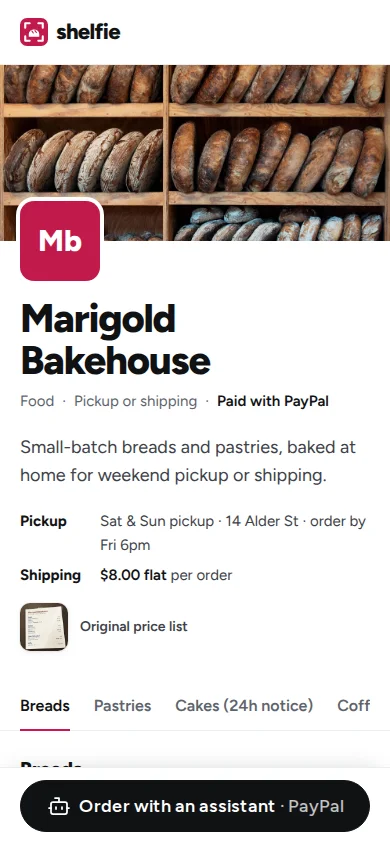
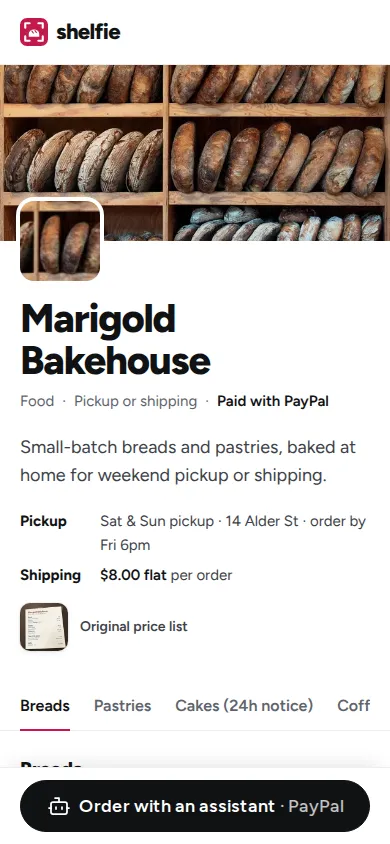
Judge round 9: ship, A 24 / B 24, 0 Part C fails (held: video, public repo, deploy); README points at round-9 and its four images are re-made from it

Changed region(s): [[0.0308, 0.2156, 0.2769, 0.3389], [0.4, 0.2156, 0.4308, 0.2464]]

diff --git a/docs/judge/round-9.md b/docs/judge/round-9.md
@@ -1,0 +1,196 @@
+# Judge round 9: main 5f7a853, images instead of stand-ins, purposeful motion, colour roles
+
+## What I judged
+
+**Artifacts:**
+- The rubric `docs/JUDGING.md` with its three Part C amendments: the 13 banned "warm editorial" patterns, the real-product check against `.scratch/refs/`, and "Images, not stand-ins".
+- Round 8's verdict, used only for its top 3 fixes and its scores.
+- `screenshots/round-9/`: 96 screens at 390 and 1440, `axe-results.json`, and the README that labels fixture and mocked states. These were taken on bbf7db3. Since then, `git diff --stat bbf7db3 HEAD -- src` is empty: only `scripts/clips/record.ts` and `video/` changed. So the screens show the current UI.
+- `screenshots/capture/` (13 files, re-shot by the e2e run in `round-9-tests.txt`), `evidence/illustrations.png`, `docs/reviews/2026-11-06-review-5.md`.
+- **The 6 motion recordings** in `recordings/round-9/`. ffprobe: all are 25 fps. `start` is 24.2 s at 1440 and 21.8 s at 390; `shop` is 27.2 s and 20.8 s; `dashboard` is 23.2 s and 23.0 s. I made a 1 fps contact sheet of each one. I also pulled 4 full-resolution mid-animation frames of the start hero (2.6, 3.3, 5.4 and 8.2 s) and a 5 fps burst of `dashboard-390` at 5.4–8.4 s, when the new paid order arrives. All are in `/tmp/judge9/`.
+- The reference screenshots (`toast-bakeybabka-1440`, `toast-felipes-390`, `square-bakery-390`, side by side).
+- Code paths cited below.
+
+I did not read `PROGRESS.md`, `DECISIONS.md`, commit messages or worker notes.
+
+## What I checked myself
+
+**Build and unit tests.** `npm run build` on HEAD exited 0, including TypeScript. `npm test` gave **1038 passed in 87 files**, exit 0. `round-9-tests.txt` records 1011 on 1e3f998; the difference is the tests that review 5's fixes added.
+
+**Live server.** I ran a production build with `DATABASE_PATH=data/judge9.db UPLOADS_DIR=data/judge9-uploads` on port 3129. `/api/health` returned `{"ok":true}`.
+
+**Seed.** It took 5.3 s and exited 0, with "Marigold Bakehouse is live: 9 items in the PayPal sandbox catalog". It is paid to the sandbox seller's own account (`s•••@business.example.com`). I filtered the owner link out of my output.
+
+**The agent door, live:**
+- `tools/list` returned `get_shop_info`, `list_products`, `create_order` and `get_order_status`.
+- `list_products {"query":"croissant"}` returned absolute `image_url`s.
+- My first two `create_order` calls had the wrong shape, and both were refused with a precise fix. One said "`name` is not a recognised argument", with the hint "Send items: [{ item_id, option_id?, quantity }]…". The other said "`fulfillment`: Expected 'pickup' | 'shipping', received object".
+- The corrected call took **1.32 s** and returned **SHF-EVBPB2**, `awaiting_approval`, total 8.50, with a `sandbox.paypal.com` approval link.
+
+**Motion and layout, live with Playwright on my production build** (script in `/tmp/judge9/pw/check.cjs`):
+- **Reduced motion on the start page.** With `reducedMotion: 'reduce'`, the hero at 400 ms already shows the final state: the shop, the "Paid" card with **Paid with PayPal**, and the "Payment received" toast. It has **0 elements with opacity between 0 and 1**. Without reduced motion, the same moment shows the paper menu in the viewfinder (`/tmp/judge9/start-rm-compare.png`).
+- **Reduced motion on the shop at 390.** After load, **0** sections, list items or headings have opacity below 1, so nothing waits for a scroll.
+- **Phone width.** `scrollWidth` is 390 at a 390 viewport.
+- **Shop picture.** The only avatar is `data-avatar="cover"`, a detail of the cover, not letters.
+- **Section jumps on a phone (fix 2).** I clicked each category tab at 390 with motion on and waited 1.2 s:
+  - Breads, Pastries and Cakes each land their heading at **top 64 px**, below the 48 px sticky tabs.
+  - Coffee, the last section, lands at 373 px.
+  - In every case, `elementFromPoint` on the heading returns the heading itself.
+  - The "Order with an assistant" bar sits at 682–844 px, far from the heading.
+
+**axe.** I parsed `round-9/axe-results.json` myself: **96 entries, 0 violations**.
+
+**Repo.** `curl -s -o /dev/null -w '%{http_code}' https://api.github.com/repos/codebreaker32/paypal-ai` returned **404**.
+
+I stopped my server by PID and deleted `data/judge9*`.
+
+## Part A
+
+| # | Score | Evidence |
+|---|---|---|
+| A1 Technological implementation | **5** (held) | **PayPal, live today:** Catalog Products (9 at seed) and Orders v2 through the door (SHF-EVBPB2 in 1.32 s, with a sandbox approval link). **Real captures in this round's suite** (`round-9-tests.txt:6–19`): seller capture `4Y6205416F379294M` COMPLETED with "payee = PAYPAL_SANDBOX_SELLER_EMAIL"; platform capture `44864743LF213222D` COMPLETED with a USPS tracker at PayPal; the Agent Toolkit brief flagging the nut allergy on both. **New AI work in the core flow:** Claude chooses each item's category while it reads the menu, and that category picks the drawing (`src/lib/domain/category.ts`, `src/lib/ai/prompts.ts`; drawings in `evidence/illustrations.png`). |
+| A2 Design | **5** (held) | **The human's feedback is visibly delivered:** <br>• **Images:** every picture slot is a photo or a drawing. `shop-no-photos-390` shows the bread, croissant, cake and coffee drawings on section tints, with the menu photo as the avatar. `setup-review-390` shows the focaccia drawing. Dashboard rows show item photos (`dashboard-orders-1440`). The recording's Juniper Loaf Co has a bread-drawing avatar. <br>• **Colour roles:** errors are vermilion (`dashboard-settings-invalid-390`, `receipt-capture-refused-390`). The brief is a slate note with an amber warning (`order-paid-with-brief-1440`). <br>• **Lively:** see the motion section below. <br>The whole set is still coherent: 96 screens, axe 0. |
+| A3 Potential impact | **5** (held) | Unchanged and still shown: payment into the seller's own account (seed line above; capture gate seller run). |
+| A4 Innovation | **5** (held) | A findable agent door, plus two vision uses (menu reading, snap your counter). The start hero now tells the agentic-commerce story without words: paper menu → live shop → an order card → **Approve $27.00 on PayPal** → Paid (`start-1440.webm` at 0–9 s). |
+| A5 Presentation readiness | **4** (held, eighth round) | **What improved:** the product itself demos better. The start hero is a 9-second animated pitch, the console order counts up to $27.00 (`shop-1440.webm` at 15 s), and a paid order arrives with a toast and a highlighted row (`dashboard-1440.webm` at 8–9 s). <br>**Why it doesn't move:** there is still no video. `video/out/` holds only `voices/` and no `shelfie-demo.mp4`. The repo is not public (404), `README.md:143` says "**Not yet run.**", and `SUBMISSION.md:86–88` still has 3 TODOs. A5 asks whether the video makes the problem, audience and stakes clear, and that can't be seen until it exists. <br>**What moves it:** fix 1. |
+| **Total** | **24/25** (round 8: 24) | |
+
+## Part B
+
+| # | Score | Evidence |
+|---|---|---|
+| B1 Idea | **5** (held) | "Your price list, open to AI shoppers." The start hero now acts it out in one loop (`start-1440.png`). |
+| B2 Implementation | **5** (held) | **Run by me:** build 0 and 1038 unit tests passed on HEAD. **Full e2e:** 182 passed and 9 skipped, with both real capture gates (`round-9-tests.txt:20–21`). Review 5 found and fixed motion and avatar bugs, e.g. "`restored` is never cleared on reset" (`docs/reviews/2026-11-06-review-5.md` #4). The gap is the same kind as last round: that e2e ran on 1e3f998, and review 5's fixes touched **36 src files** after it (`git diff --stat 1e3f998 HEAD -- src`). See fix 3. |
+| B3 Depth | **5** (held) | The fallback chains handle messy real shops: logo → cover → menu photo → drawing (`src/lib/domain/avatar.ts:29–44`), and a services shop gets bike and tool drawings, not plates (review 5 #2). Reduced motion is honoured, including after load (`use-prefers-reduced-motion.ts`). A failed motion chunk falls back to motion off (review 5 #1). |
+| B4 Usefulness | **4** (held) | No hosted instance (`README.md:143`), so no seller can use it this week. *Fix:* fix 2. |
+| B5 Innovation | **5** (held) | Same as A4. |
+| **Total** | **24/25** (round 8: 24) | |
+
+## Part C
+
+**Screens I viewed.** Each was set beside the Toast and Square references:
+- `start-390/1440`
+- `shop-first-screen-390`, `shop-1440`, `shop-no-photos-390`
+- `dashboard-orders-390/1440`, `order-paid-with-brief-390/1440`
+- `setup-review-390`, `setup-failed-390`, `setup-live-390` (full height)
+- `receipt-paid-390`, `receipt-capture-refused-390`
+- `console-conversation-390`, `dashboard-settings-invalid-390`
+- every frame of the 6 contact sheets
+
+**Banned 2026 patterns, per screen** (2 or more fails a screen):
+
+| Screen | Patterns found | Count |
+|---|---|---|
+| start (390, 1440, and the hero frames) | none. White page, Figtree, a black primary button, floating cards with soft shadows (not hairlines), and one grey line under the button. | 0 |
+| shop, shop-first-screen, shop-no-photos | none. The 1440 item tiles have a light border, as Toast's own item cards do (`toast-bakeybabka-1440`). There is no dotted leader, mono price or chip. | 0 |
+| dashboard-orders (390, 1440), dashboard recordings | none. Status is a dot plus a word ("● Paid", "⊗ PayPal refused payment"), not a boxed chip. | 0 |
+| order-paid-with-brief (390, 1440) | **an icon on most labels** inside the brief card: sparkle on "AI brief by Claude", warning, info, shield on "Allergy", speech bubble on "Buyer's note", envelope on the email. Round 8's grey line "Check before acting" is gone (no match in `src/`). | 1 |
+| setup-review, setup-live, setup-failed | none | 0 |
+| receipt-paid, receipt-capture-refused | none | 0 |
+| console-conversation | none. Mono appears only on tool names (`create_order`), not prices. | 0 |
+| dashboard-settings-invalid | none | 0 |
+
+The maximum is 1, on one screen. No screen fails.
+
+**Per screen: text stand-ins for an image.** **None found.**
+- **Shop avatar:** a cover detail on `shop-first-screen-390` and `shop-1440` (live: `data-avatar="cover"`), and the menu photo on `shop-no-photos-390` and `setup-live-390`.
+- **Juniper Loaf Co:** the bread drawing in the dashboard recordings.
+- **Items with no photo:** category drawings (`shop-no-photos-390`, `setup-review-390`).
+- **Code:** `ShopAvatar` has no letter branch (`src/components/shop/ShopAvatar.tsx:33–60`).
+- **The "Mb" badge (fix 4) is gone.** `shop-first-screen-390` shows a cover-detail square overlapping the cover's bottom edge, clear of item 1. The empty "Your logo" slot in Settings is an add-image upload control, not a stand-in.
+
+**Real-product check.** **Pass on every viewed screen.**
+- **Shop:** the 1440 page has the same anatomy as Toast Local's Bakey page (cover band, name, meta line, a primary "Order" action, photo tiles). At 390, the price now sits right under the name, as on `toast-felipes-390`.
+- **Dashboard:** a Square/Toast-style order list.
+- **Order detail:** an operations app's detail with a side form.
+- **Start page:** reads as a product landing page, not a template. The Square for bakeries reference uses a serif headline; Shelfie doesn't.
+
+| Item | Result | Evidence |
+|---|---|---|
+| Clear hierarchy, one primary action | **Pass** | One black fill per screen: **Snap your price list** (`start`), **Order with an assistant · PayPal** (`shop-first-screen-390`), **Copy agent door link** (`setup-live-390`), **Try again** (`setup-failed-390`), **Back to shop** (`receipt-capture-refused-390`), **Save** (`dashboard-settings-invalid-390`). The console's primary is PayPal's own blue **Approve $27.00 on PayPal**. |
+| Loading, success, empty and error states | **Pass** | Every state from round 8 is still screenshotted. New this round: a shimmer on the shop cover before the image (`shop-1440.webm` at 1 s, a grey block, then the photo at 2 s), and "Writing the brief…" with a spinner on fresh paid rows (`dashboard-390.webm`). |
+| WCAG AA contrast, keyboard, visible focus, alt text | **Pass** | `axe-results.json`: 96 screens, **0 violations** (parsed by me). Avatars are `alt=""` `aria-hidden` beside the shop name (`ShopAvatar.tsx:44–56`). |
+| Phone width: no horizontal scroll, targets ≥ 44 px | **Pass** | Live `scrollWidth` is 390 at 390. The 390 buttons are full-height pills. |
+| Copy is plain and specific | **Pass** | "Reading took too long. Long menus sometimes do. Try again." "Enter the email you use to log in to PayPal, like rosa@example.com." "You approved it, but PayPal refused to complete the payment, so nothing was charged." |
+| No generic AI look | **Pass** | No gradient, glass, glow or emoji. **Fix 1 is done:** pomegranate is the accent only (active tab underline, logo, count badge), errors are vermilion, and the AI brief is a slate note. |
+| No empty hero, no three identical feature cards | **Pass** | The start hero is the product acting out its own story, not a slogan block. |
+| No lorem or fake stats | **Pass** | Credited Pexels photos and labelled fixtures. Numbers in the capture gate are real sandbox ids. |
+| Deliberate type, palette and spacing | **Pass** | Figtree in a heavy display weight with a light body, one accent, separate error and note roles, and the 13 drawings in one line-and-flat style on four tints (`illustrations.png`). |
+| Banned 2026 patterns (2+ on a screen fails) | **Pass** | Max 1, on 1 screen (table above). |
+| Images, not stand-ins | **Pass** | None found (above). |
+| Real-product check | **Pass** | Above. |
+| Tokens defined once and used everywhere | **Pass** | Colour roles in `src/app/globals.css`. Motion durations live in one module (`src/components/motion/tokens.ts`). |
+| Type scale and line length | **Pass** | The same display, title, body and meta sizes across the new states. |
+| Consistent components, purposeful and subtle motion | **Pass** | See the motion section. |
+
+### Motion (from the recordings and my live build)
+
+- **Purposeful: pass.**
+  - **Start hero** (`start-1440.webm`). It plays once in about 9 s, then holds:
+    - 0–2 s: the paper menu in a camera viewfinder;
+    - 3 s: it cross-fades into the live shop;
+    - 4 s: the items and the order bar;
+    - 5–7 s: a "Ready to pay" card fills line by line;
+    - 8 s: **Approve $27.00 on PayPal**;
+    - 9 s: **Paid with PayPal**, and "Payment received SHF-K7F2QX · $27.00" slides in.
+    The story reads.
+  - **Shop.** Sections rise in as they enter the viewport. Tab jumps smooth-scroll to the heading. Console entries stagger in, and the approval card's total counts up ($26.98 at 15 s → $27.00).
+  - **Dashboard** (`dashboard-1440.webm` at 8–9 s). A paid order slides in as a toast ("New paid order SHF-FQY387 · $17.00 · Open"), its row is tinted green, the Orders badge goes 3 → 4, and "Paid" counts $54.00 → $59.52 → $70.43 → $71.00 (390 burst, 6.4–7.0 s).
+- **Smooth, no reflow: pass, with two small blemishes:**
+  1. **On a phone the toast covers the row it announces.** In `dashboard-390.webm` at 8–13 s, the new SHF-YBPVH7 row's green tint peeks above a 90 px black toast that sits on it.
+  2. **The "Ready to pay" card appears as an empty white box** for about half a second before its lines fill (`start-1440` frame at 5.4 s).
+
+  A new row pushing the list down is a real content change, not jank. Nothing else jumps.
+
+  The recordings were made on a dev server: Next's "N" indicator shows in the bottom-left of every frame. My reduced-motion and section-jump checks ran on a production build.
+- **Not distracting: pass.** The hero runs once and stops, and nothing loops. Motion is transform and opacity only (spec'd in `CLAUDE.md`, and nothing else moves in the frames).
+- **Reduced motion respected: pass, verified live.** Under reduce, the start page shows its final state at 400 ms with 0 translucent elements, and the shop has 0 hidden sections after load.
+
+**Part C: 0 fails** (round 8: 0).
+
+### The human's four fixes
+
+| Fix | Done? | Evidence |
+|---|---|---|
+| 1. The accent is not the error colour; the brief and allergy read as notes | **Done** | Vermilion errors in `dashboard-settings-invalid-390` and `receipt-capture-refused-390`. Slate brief card with an amber warning in `order-paid-with-brief-390`. |
+| 2. Phone price close to the name; the sticky bar doesn't cover a heading after a jump | **Done** | Price directly under the name (`shop-first-screen-390`, `shop-no-photos-390`). Headings land at 64 px under the 48 px tabs, with the bar at 682+ px (my live check). |
+| 3. No text clipped behind the floating "Ready to pay" card | **Done** | At 1440 the Paid card overlaps only the phone's empty lower area (`start-1440.png`; frames at 5.4 and 8.2 s). At 390 the card sits below the item rows (`start-390.png`). |
+| 4. The "Mb" badge is gone | **Done** | The avatar is a cover detail (`shop-first-screen-390`; live `data-avatar="cover"`). |
+
+## Round 8's top 3 fixes
+
+1. **Cut the video, publish it, make the repo public: not done.**
+   - The pipeline exists (`video/remotion`, `video/project/demo.json`, `video/shelfie-demo.srt`), but there is no `video/out/shelfie-demo.mp4`.
+   - The GitHub API returns 404, and `SUBMISSION.md:86–88` still has 3 TODOs.
+   - **A5 held at 4.** The brief says the video comes after this round.
+2. **Deploy to Render: not done.** `README.md:143` still says "Not yet run." **B4 held at 4.**
+3. **Freeze the code and prove the final commit: partly done. No score moved; it protects A1, A2 and B2.**
+   - **Done:**
+     - the grey line "Check before acting" is cut (no match in `src/`);
+     - the owner link is masked in `setup-live-390` (`/claim/••••••••`);
+     - `README.md:13` was repointed at `round-8/`, which is now one round stale.
+   - **Not done:** the full e2e ran on 1e3f998, 36 src files before HEAD.
+
+## Top 3 fixes (ranked by Part A gain)
+
+1. **Render, publish and submit the video, and make the repo public (A5 4 → 5; without these the entry fails Stage One).** Due 12 Nov 2026, 12:00 PT.
+   - Run `cd video/remotion && npm run voice && npm run render`, check the cut is under 3:00, and upload it public on YouTube.
+   - **Open on the start hero.** Its 9-second paper menu → shop → Approve on PayPal → Paid loop is now the best "what is this" shot in the product.
+   - Then make the repo public after a history secret scan, confirm the API returns 200 and the licence shows in About, and fill `SUBMISSION.md:86–88`.
+2. **Deploy to Render (B4 4 → 5; also helps A5).** Follow `docs/DEPLOY.md`, seed in the service shell, register the webhook, and replace `README.md:143` with the URL and the date it was verified.
+3. **Polish what this round added, and prove the final commit (protects A2 and B2; a coder can do all of it in this repo):**
+   - **Dashboard at 390:** stop the new-order toast from covering the row it announces (`dashboard-390.webm` at 8–13 s). Lift it above the row, or scroll the highlighted row into view.
+   - **Start hero:** make the "an AI assistant orders" beat visible. Show a one-line chat bubble ("2 almond croissants and a sourdough, shipped") on the "Ready to pay" card before its lines, and don't show the card empty (frame at 5.4 s).
+   - **`shop-no-photos-390`:** four pastries plus a fruit galette all show the same croissant. Add a tart or pie drawing, or vary the pose within a category.
+   - Run `npm run e2e` once on the commit that ships, record it in a tests log, and point `README.md:13` at `round-9/`.
+
+## Verdict: **ship**
+
+Part A is **24/25** and Part B is **24/25** (both held), with **0 Part C fails**. That meets the bar (no Part C fails, Part A ≥ 20) for the fifth straight round. Every item of the human's feedback is visible:
+- pictures in every slot, never letters;
+- a story hero that reads;
+- motion that is purposeful and turns off under reduced motion (checked live);
+- separate error and note colours;
+- the phone shop fixes.
+
+The motion has two small blemishes (fix 3). As in every round since 5, what holds A5 and B4 is not code. There is no video, no public repo and no hosted URL, so the entry would still fail Stage One as it stands.

diff --git a/docs/PROGRESS.md b/docs/PROGRESS.md
@@ -1,6 +1,6 @@
 # Progress
 
-_Last updated: 2026-11-06 22:40 IST (run 3, session 2)_
+_Last updated: 2026-11-06 22:50 IST (run 3, session 2)_
 
 ## Current phase
 **Run 3 (from 6 Nov 2026, 20:02 IST): Part A "image-first and lively", then Part B "the demo video".** The human's feedback on the redesign (DECISIONS "Run 3, session 1"): images everywhere instead of text stand-ins, a lively site, then the video.
@@ -15,7 +15,7 @@ _Last updated: 2026-11-06 22:40 IST (run 3, session 2)_
 - **done, verified:** the image optimizer's `localPatterns` also allows `/samples/**` (the start page's sample chips went through `next/image` and got a 400; found by the screenshot run and by the clip worker); `tests/images/local-patterns.test.ts` keeps every optimized path allowed (red without the fix).
 - **done: `docs/judge/screenshots/round-9/`** on a production build of `bbf7db3`: **96 screens, 0 axe violations** (1 flaky on the first try, passed on retry), with a README that labels fixtures and mocks and says what run 3 changed. **Motion recordings** for the judge: `docs/judge/recordings/round-9/` (start, shop, dashboard at 1440 and 390; 6 passed).
 - **done, merged (`5f7a853`): the clip recorder on the run-3 UI** (Part B Task 7, trial): waits for entrances and count-ups to settle and for pictures to load instead of fixed sleeps; 08 now opens on the new-paid-order toast and glow (the dashboard window waits hidden behind the buyer's and comes forward after 06b); the terminal clips end clean. **Trial of all 12 clips into `/tmp/clips-trial`: every clip 1920x1080, constant 30 fps, 0 repeated and 0 dropped frames;** the worker viewed one frame every 2 s per clip: new UI on screen (drawings, the shop picture, the AI brief as a note), no sandbox login, owner token or key. Trial orders: SHF-M7DXY2 → PayPal `43B085869U4097126` → capture `6LL97195GL7343250` ($27.00). Seen by the worker: the toast title wraps at 1440 px (to fix with the judge's fixes).
-- **running:** judge round 9 (`.scratch/judge9-prompt.md`).
+- **done: judge round 9: ship, A 24 / B 24, 0 Part C fails** (`docs/judge/round-9.md`). Every item of the human's feedback is visibly delivered (pictures in every slot, the story hero, purposeful motion, error and note colours, the phone fixes); reduced motion and the phone section jumps checked live on its own production build; the door ordered SHF-EVBPB2 in 1.32 s. Held, not raised: A5 and B4 wait on the rendered video (Part B, under way), the public repo and the deploy (the human's). Its fix 3 (the coder's): the phone toast covers the row it announces; the hero's order beat has no chat line and its card is empty for a moment; five pastries share one croissant; e2e on the shipping commit; the README pointing at round 9 (done, with the README's four images re-made from round 9). Fix 3's UI items and the final anti-slop pass are with a fixer in a worktree.
 - **Next:** judge round 9's fixes (+ the toast width) and the anti-slop pass → the final full e2e with the capture gate → Part B: the final clips (`npm run clips`), the edit in `video/project/demo.json` (`beats`/`videoStartSec`/`playbackRate` per scene), render, a frame every 2 s checked, the video judge round.
 
 **Run 3, session 1 (from 20:02 IST).**

diff --git a/docs/judge/SCORES.md b/docs/judge/SCORES.md
@@ -13,3 +13,4 @@
 | directions-2 | A2: Storefront 4 / Feed 4 | n/a | Storefront 1 / Feed 1 | Photo-first round (`directions-2.md`): **Storefront wins**. Its shop is closest to the Toast references, it builds the spec phone rows, and its in-scope screens have 0 banned patterns; its one fail is the out-of-scope order detail (old copy, outlined cards). Feed fails on the in-scope dashboard (status chips and icons everywhere). Take from Feed: order-detail copy cuts, sidebar dashboard shell |
 | 7 | 24 | 24 | 0 | First round under the amended Part C (13 banned "warm editorial" patterns + real-product check): the photo-first Storefront reset passes on every viewed screen (max 1 pattern, grey explainer lines; 87 screens, axe 0). Judge verified live: snap your counter (4.3 s, centred croissant crops), item photos (WebP, no EXIF), PWA installable (pwa.spec passed on the judge's build), payee on PayPal's record, findable door, and the console's read-back now enforced in code (round-6 fix 3 done). Clean idle e2e on 5816df1 (fix 2 done). A5 and B4 held for the sixth round: no video, deploy or public repo. Capture-gate screenshots still show the retired design. Verdict: **ship** |
 | 8 | 24 | 24 | 0 | Round 7's fixes 2 and 3 done: capture-gate screenshots re-shot in the Storefront design (receipt 7 banned patterns → 0), full e2e 173 passed / 3 skipped with both real captures (on 68a2c64, 8 files before HEAD; judge re-ran setup-review 8/8 on HEAD), counter sheet's reading/none/error/live states shot (96 screens, axe 0), grey lines cut (screens with a banned pattern 4 → 1), 4 README images. New: 12 raw demo clips (1920x1080, 30 fps, 320 s raw, no login/token/key in 31 frames viewed). Judge verified live: seed 3.8 s, door order SHF-NZRYRA with payee on PayPal's record, price tamper refused, discovery. A5 and B4 held for the seventh round: no cut video, deploy or public repo (GitHub API 404). Verdict: **ship** |
+| 9 | 24 | 24 | 0 | Run 3's feedback delivered: pictures in every slot (logo → cover detail → menu photo → one of 13 category drawings Claude picks while reading; "Mb" badge gone), separate error vermilion and slate notes, phone price under name, section jumps land below the tabs (judge measured 64 px under 48 px tabs, live), story hero (menu → shop → Approve on PayPal → Paid) with no clipped text, toast + highlighted row + count-ups on a new paid order; reduced motion verified live (final state at 400 ms). 96 screens axe 0, 1038 unit on HEAD, door order SHF-EVBPB2 in 1.32 s. Blemishes: phone toast covers the new row; hero's empty card. A5 and B4 held for the eighth round: no rendered video, deploy or public repo (GitHub API 404). Verdict: **ship** |

diff --git a/README.md b/README.md
@@ -10,7 +10,7 @@ Built for the PayPal AI Hackathon. PayPal **sandbox** only. Licensed MIT ([LICEN
 | **An AI assistant orders through the agent door** | **The seller's orders, with Claude's brief** |
 | <img src="docs/images/assistant-order.webp" alt="The buyer console: Claude placed the order through the shop's agent door and shows an Approve $27.00 on PayPal button" width="420"> | <img src="docs/images/dashboard-orders.webp" alt="The seller dashboard's order list: thumbnails, status filters, paid totals and an AI brief flagging a nut allergy" width="420"> |
 
-Screenshots from a production build with the seeded demo shop (every screen: [`docs/judge/screenshots/round-8/`](docs/judge/screenshots/round-8/)).
+Screenshots from a production build with the seeded demo shop (every screen: [`docs/judge/screenshots/round-9/`](docs/judge/screenshots/round-9/)).
 
 ## The problem
 
